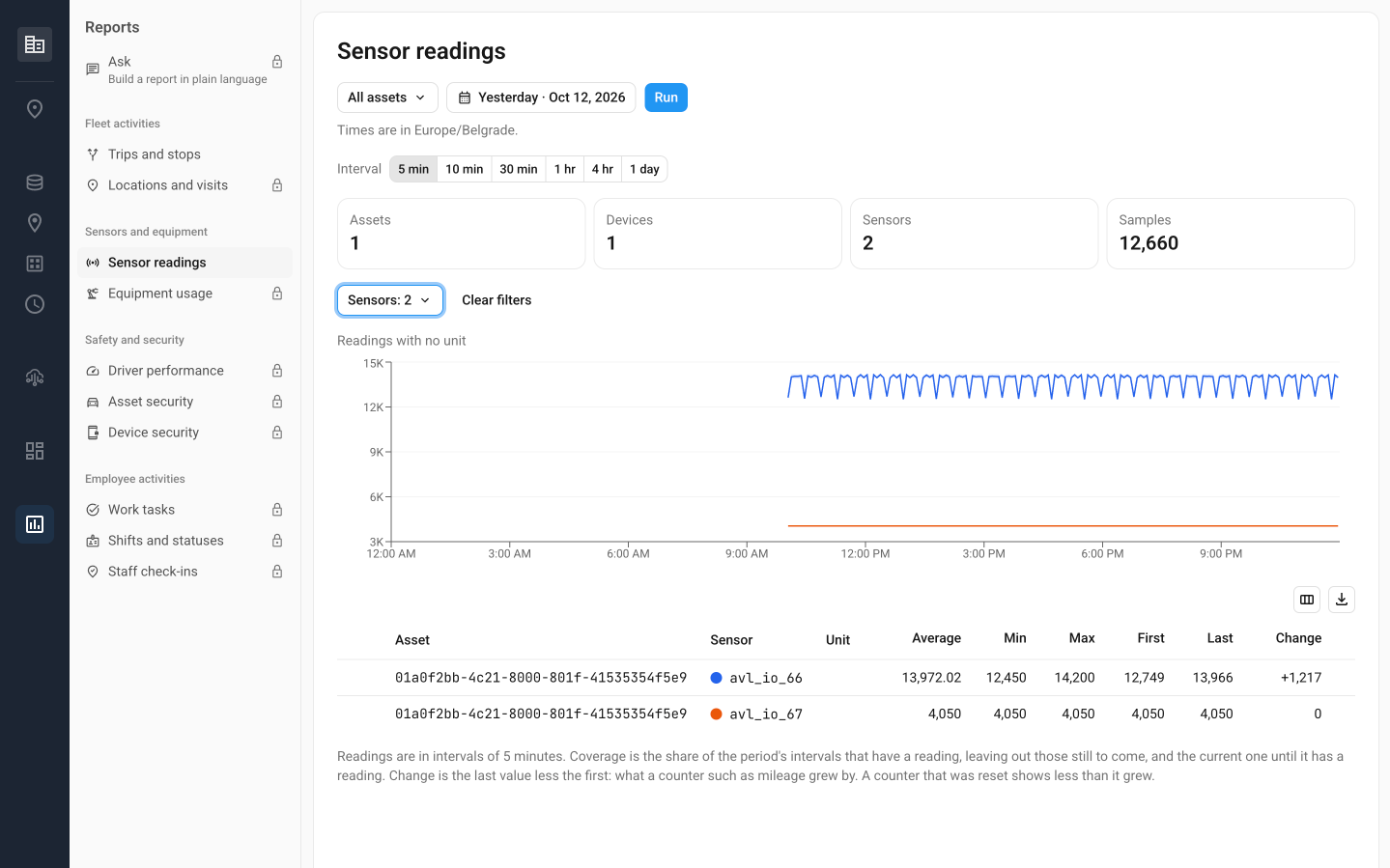
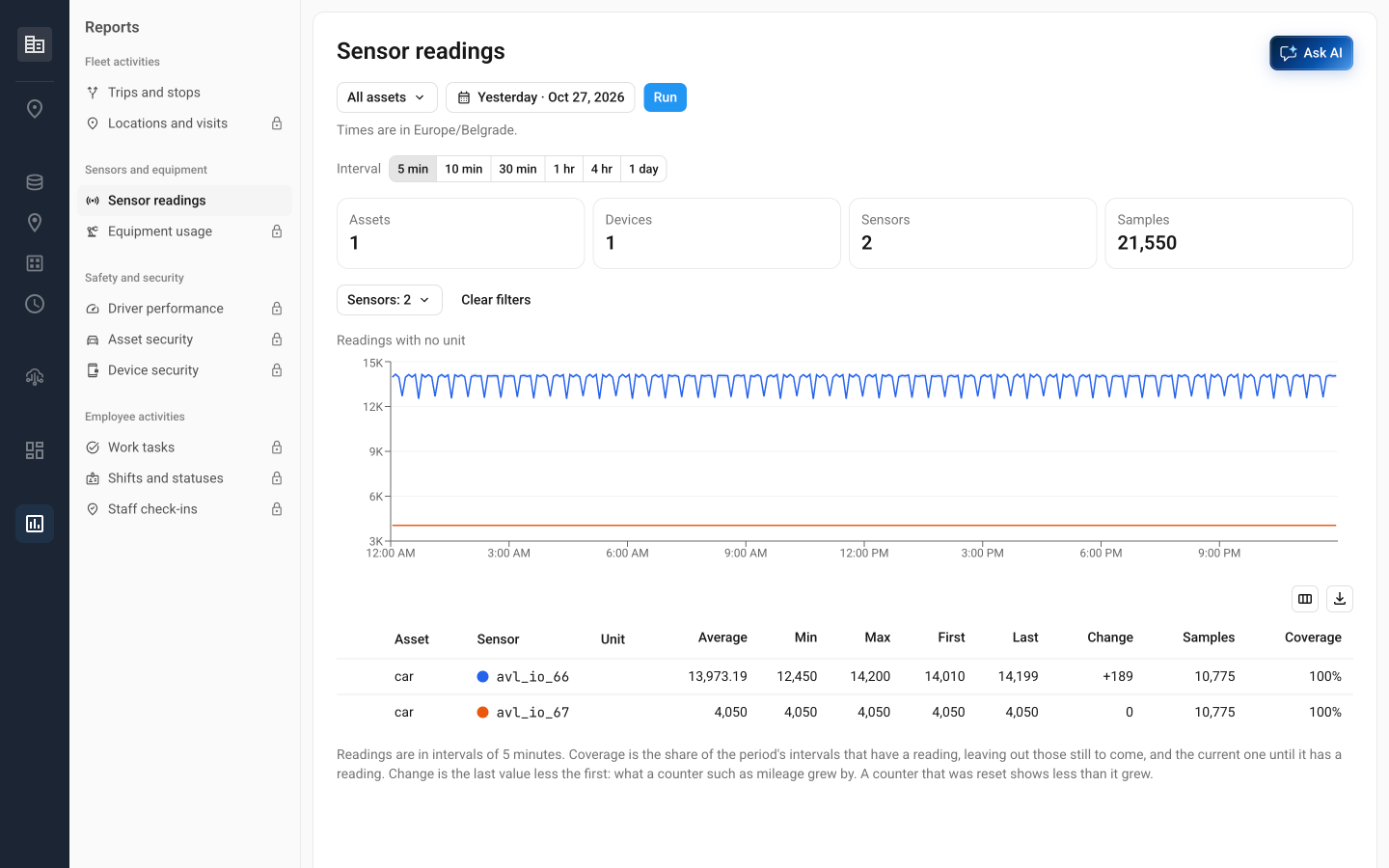
Mirror update 2026-11-02T14:45:42Z

diff --git a/docs/location-intelligence/reports/README.md b/docs/location-intelligence/reports/README.md
@@ -12,13 +12,15 @@ noIndex: true
 
 Reports answers the questions that a fleet manager asks about a whole period. How far did each van drive last week, how long did it stand still, and how warm did the refrigerated trailer get? Reports shows how your fleet worked over the period that you choose. You see the totals first, then one asset, trip, or sensor. [Tracking](../tracking/) shows where your assets are now, and Reports shows what they did.
 
-<figure><img src="../.gitbook/assets/reports-trips-and-stops.png" alt="The Trips and stops report on the Summary tab, next to the Reports menu. The menu lists Ask and the report types in four groups: Fleet activities, Sensors and equipment, Safety and security, and Employee activities. Trips and stops and Sensor readings have no lock, and the other report types and Ask show a lock. At the top of the report are the All assets button, the period button for yesterday, and the Run button, with the time zone of the report under them. Six tiles show the totals: Trips, Distance, Driving time, Stops, Stop time, and Max speed. The By asset table has one row for the asset of the report. Under it, the Trip and stop log lists trips and stops with their start, end, duration, distance, driving time, speeds, and coordinates."><figcaption><p>Trips and stops: the totals for the period, one row for each asset, and the log of trips and stops</p></figcaption></figure>
+<figure><img src="../.gitbook/assets/reports-trips-and-stops.png" alt="The Trips and stops report on the Summary tab, next to the Reports menu. The menu lists the report types in four groups: Fleet activities, Sensors and equipment, Safety and security, and Employee activities. Trips and stops and Sensor readings have no lock, and the other report types show a lock. At the top right is the Ask AI button. At the top of the report are the All assets button, the period button for yesterday, and the Run button, with the time zone of the report under them. Six tiles show the totals: Trips, Distance, Driving time, Stops, Stop time, and Max speed. The By asset table has one row for the asset of the report. Under it, the Trip and stop log lists trips and stops with their start, end, duration, distance, driving time, speeds, and coordinates."><figcaption><p>Trips and stops: the totals for the period, one row for each asset, and the log of trips and stops</p></figcaption></figure>
 
 ## What you can do with Reports
 
 **See how your fleet moved, from the totals to a single trip.** At the end of a week or a month, the [Trips and stops](trips-and-stops.md) report shows the totals for the period in tiles. The tiles show the number of trips and stops, the distance, the driving time, the stop time, and the maximum speed. The **By asset** table splits these totals by asset, and the **By day** table splits them by day. Open a tab for one asset to see its days. The **Trip and stop log** lists every trip and stop with its start, end, duration, distance, and speed. Click a trip in the log to see where it started and ended on a map.
 
 **Check what the sensors reported.** When a load arrives too warm or a tank runs low, the [Sensor readings](sensor-readings.md) report shows the readings of every sensor on the GPS devices of your assets over a period. Sensors measure values such as fuel level, temperature, or battery voltage. For each sensor, the report shows the average, the lowest and the highest reading, how much the value changed, and how much of the period has readings. A chart for each unit of measure shows how the readings changed. Click a sensor to open its reading panel, which also lists the pauses: the gaps when the sensor sent no readings for longer than usual.
+
+**Ask for a report in plain language.** Describe the report that you need, such as the trips of all your assets yesterday, and **Ask AI** proposes the report with its period and assets. One click opens and runs it.
 
 **Share a report and download its tables.** The page address keeps the assets and the period that you chose, so a link to the page opens the same report. Hide the columns that you don't need and download each table as a CSV or Excel file. See [Manage reports](manage-reports.md) to learn how to run a report, share it, and download its tables.
 
@@ -43,7 +45,8 @@ Reports has a set of ready report types. To build your own reports and dashboard
 
 ## Core concepts
 
-* **Report type**: What a report answers. The Reports menu groups the report types under **Fleet activities**, **Sensors and equipment**, **Safety and security**, and **Employee activities**. You can run two report types: [Trips and stops](trips-and-stops.md) and [Sensor readings](sensor-readings.md). The other report types and **Ask**, which builds a report from a request in plain language, show a lock and are offered as paid options. See [Report types with a lock](manage-reports.md#report-types-with-a-lock).
+* **Report type**: What a report answers. The Reports menu groups the report types under **Fleet activities**, **Sensors and equipment**, **Safety and security**, and **Employee activities**. You can run two report types: [Trips and stops](trips-and-stops.md) and [Sensor readings](sensor-readings.md). The other report types show a lock and are offered as paid options. See [Report types with a lock](manage-reports.md#report-types-with-a-lock).
+* **Ask AI**: Builds a report from a request in plain language. Open it with the **Ask AI** button at the top right of every page in Reports. See [Ask for a report in plain language](manage-reports.md#ask-for-a-report-in-plain-language).
 * **Report**: A report type run for the assets and the period that you choose.
 * **Trip**: A movement of an asset from the moment it starts to move until it stands still for at least 5 minutes.
 * **Stop**: A period of at least 5 minutes when the asset stands still and its GPS device keeps sending positions.
@@ -89,7 +92,7 @@ Start with [Manage reports](manage-reports.md). It takes you from opening Report
 
 ## Section contents
 
-* [Manage reports](manage-reports.md): Run a report, share it by its link, and download its tables.
+* [Manage reports](manage-reports.md): Run a report, ask for one in plain language, share it by its link, and download its tables.
 * [How report data is prepared](how-report-data-works.md): Learn when new data appears in a report, how far back reports go, and which time zone a report uses.
 * [Trips and stops](trips-and-stops.md): Learn how trips and stops are detected and what the tiles, tables, and log of the report show.
 * [Sensor readings](sensor-readings.md): Learn which values the report includes and how the average, the change, and the coverage are calculated.

diff --git a/docs/location-intelligence/reports/manage-reports.md b/docs/location-intelligence/reports/manage-reports.md
@@ -1,7 +1,8 @@
 ---
 description: >-
   How to run a report in Reports for the assets and the period that you
-  choose, share it by its link, and download its tables as CSV or Excel files.
+  choose, ask for a report in plain language, share it by its link, and
+  download its tables as CSV or Excel files.
 tags:
   - how-to
   - beta
@@ -127,9 +128,37 @@ The file name has the table and the first and last day of the period, for exampl
 
 If the file isn't saved, the menu shows "The file could not be written. Try again, or reload the page."
 
+## Ask for a report in plain language
+
+**Ask AI** builds a report from a request in plain language. Describe the report that you need, and Ask proposes the report type, the period, and the assets. Ask works with the report types that you can run.
+
+To ask for a report, follow these steps:
+
+1. Click **Ask AI** at the top right of the page. The **Ask** panel opens next to the report.
+2. In the box at the bottom of the panel, describe the report that you need, for example "Trips of all my assets yesterday". In a new conversation, you can also click one of the examples in the panel. The example appears in the box, where you can change it.
+3. Press Enter to send the question. To start a new line instead, press Shift+Enter.
+4. Wait while the panel shows **Thinking…**. The reply appears under your question.
+5. If the reply proposes a report, check the report type, the days, and the assets in the proposal, then click **Open report**.
+
+The report opens for the period and the assets of the proposal and runs. On a narrow screen, the panel closes so that the report shows.
+
+You can name assets by their names and periods in everyday words. "Last week" and the other periods of the period menu cover the same days as in the menu. A proposal follows the rules of the report: at most 31 days and at most 200 assets chosen one by one. Ask can also answer with figures from a report, such as the distance that each asset drove, and tell you which reports you can run.
+
+A question can be up to 2,000 characters long. Ask answers one question at a time, and up to 50 of your questions in a workspace in 24 hours.
+
+### Continue or start a conversation
+
+Ask keeps your conversation while you move between reports in the same browser tab. Each workspace has its own conversation. Ask keeps a conversation for 30 days after its last question.
+
+* To start a new conversation, click <picture><source srcset="../.gitbook/assets/icons/reports-add-dark.svg" media="(prefers-color-scheme: dark)"><img src="../.gitbook/assets/icons/reports-add.svg" alt="New conversation" data-size="line"></picture> at the top of the panel.
+* To close the panel, click **Ask AI** again or press Esc. Your conversation stays when you open the panel again.
+* To make the panel wider or narrower, drag its left edge. The browser remembers the width.
+
+If Ask doesn't answer, see [Ask AI doesn't answer](troubleshooting.md#ask-ai-doesnt-answer).
+
 ## Report types with a lock
 
-Besides **Trips and stops** and **Sensor readings**, the Reports menu shows other report types and **Ask** with <picture><source srcset="../.gitbook/assets/icons/reports-lock-dark.svg" media="(prefers-color-scheme: dark)"><img src="../.gitbook/assets/icons/reports-lock.svg" alt="Locked" data-size="line"></picture>. Click one of them to see what it reports.
+Besides **Trips and stops** and **Sensor readings**, the Reports menu shows other report types with <picture><source srcset="../.gitbook/assets/icons/reports-lock-dark.svg" media="(prefers-color-scheme: dark)"><img src="../.gitbook/assets/icons/reports-lock.svg" alt="Locked" data-size="line"></picture>. Click one of them to see what it reports.
 
 These report types are offered as paid options. Contact Navixy to add them to your workspace.
 

diff --git a/docs/location-intelligence/reports/trips-and-stops.md b/docs/location-intelligence/reports/trips-and-stops.md
@@ -21,7 +21,7 @@ This page describes what the report shows and how its values are calculated. To 
 
 ## What the report shows
 
-<figure><img src="../.gitbook/assets/reports-trips-and-stops.png" alt="The Trips and stops report on the Summary tab, next to the Reports menu. The menu lists Ask and the report types in four groups: Fleet activities, Sensors and equipment, Safety and security, and Employee activities. Trips and stops and Sensor readings have no lock, and the other report types and Ask show a lock. At the top of the report are the All assets button, the period button for yesterday, and the Run button, with the time zone of the report under them. Six tiles show the totals: Trips, Distance, Driving time, Stops, Stop time, and Max speed. The By asset table has one row for the asset of the report. Under it, the Trip and stop log lists trips and stops with their start, end, duration, distance, driving time, speeds, and coordinates."><figcaption><p>Trips and stops on the Summary tab: the totals in the tiles, a row for each asset, and the log of trips and stops</p></figcaption></figure>
+<figure><img src="../.gitbook/assets/reports-trips-and-stops.png" alt="The Trips and stops report on the Summary tab, next to the Reports menu. The menu lists the report types in four groups: Fleet activities, Sensors and equipment, Safety and security, and Employee activities. Trips and stops and Sensor readings have no lock, and the other report types show a lock. At the top right is the Ask AI button. At the top of the report are the All assets button, the period button for yesterday, and the Run button, with the time zone of the report under them. Six tiles show the totals: Trips, Distance, Driving time, Stops, Stop time, and Max speed. The By asset table has one row for the asset of the report. Under it, the Trip and stop log lists trips and stops with their start, end, duration, distance, driving time, speeds, and coordinates."><figcaption><p>Trips and stops on the Summary tab: the totals in the tiles, a row for each asset, and the log of trips and stops</p></figcaption></figure>
 
 Here's what you can do in the report:
 

diff --git a/docs/location-intelligence/reports/troubleshooting.md b/docs/location-intelligence/reports/troubleshooting.md
@@ -1,7 +1,8 @@
 ---
 description: >-
   Fix an empty report, a missing or repeated trip, a missing asset or sensor, a
-  trip on the wrong day, and messages when a report doesn't run or open.
+  trip on the wrong day, and messages when a report or Ask AI doesn't run or
+  open.
 tags:
   - troubleshooting
   - beta
@@ -128,6 +129,19 @@ Reports shows one of the following messages instead of the report:
 | **Report data is unavailable**, "Report data cannot be read right now. Please try again later." | Wait a few minutes and click **Try again**. If the message appears again, contact Navixy support. |
 
 A report that is too large doesn't run at all. Reports never shows only a part of a report.
+
+## Ask AI doesn't answer
+
+The **Ask** panel shows one of the following messages instead of a reply:
+
+| Message | What to do |
+| --- | --- |
+| "Ask could not answer this." | Click **Ask again**. If the message appears again, change the question, for example name the report type, the period, and the assets. |
+| "Ask is busy. Try again in a minute." | Wait a minute and send the question again. |
+| "Ask is still answering your last question." | Wait for the reply to your last question, then send the next one. |
+| "You have asked N questions in the last 24 hours, as many as Ask takes. Try again later." | Ask answers up to 50 of your questions in a workspace in 24 hours. Wait until your earliest question of the last 24 hours is more than 24 hours old. |
+| "This conversation is gone. Ask keeps a conversation for 30 days after its last question." | Click **New conversation** to start a new one. |
+| "This conversation could not be read." | Click **Try again**. If the message appears again, start a new conversation with <picture><source srcset="../.gitbook/assets/icons/reports-add-dark.svg" media="(prefers-color-scheme: dark)"><img src="../.gitbook/assets/icons/reports-add.svg" alt="New conversation" data-size="line"></picture>. |
 
 ## The chart, the map, or a download doesn't appear
 

diff --git a/docs/location-intelligence/reports/sensor-readings.md b/docs/location-intelligence/reports/sensor-readings.md
@@ -21,7 +21,7 @@ This page describes what the report shows and how its values are calculated. To 
 
 ## What the report shows
 
-<figure><img src="../.gitbook/assets/reports-sensor-readings.png" alt="The Sensor readings report for one day, filtered to two sensors with the Sensors filter. Under the period, the Interval options run from 5 min to 1 day. Four tiles show 1 asset, 1 device, 2 sensors, and the number of samples. A chart titled Readings with no unit shows one line for each sensor, starting late in the morning, when the readings start. The table lists the two sensors under the keys that the device sends, with Average, Min, Max, First, Last, and Change."><figcaption><p>Sensor readings for two sensors: the interval options, the tiles, a chart of the readings, and the table of sensors</p></figcaption></figure>
+<figure><img src="../.gitbook/assets/reports-sensor-readings.png" alt="The Sensor readings report for one day, filtered to two sensors with the Sensors filter. Under the period, the Interval options run from 5 min to 1 day. Four tiles show 1 asset, 1 device, 2 sensors, and the number of samples. A chart titled Readings with no unit shows one line for each sensor over the whole day. The table lists the two sensors under the keys that the device sends, with Average, Min, Max, First, Last, Change, Samples, and Coverage. The Ask AI button is at the top right."><figcaption><p>Sensor readings for two sensors: the interval options, the tiles, a chart of the readings, and the table of sensors</p></figcaption></figure>
 
 The report opens with no assets chosen.
 
